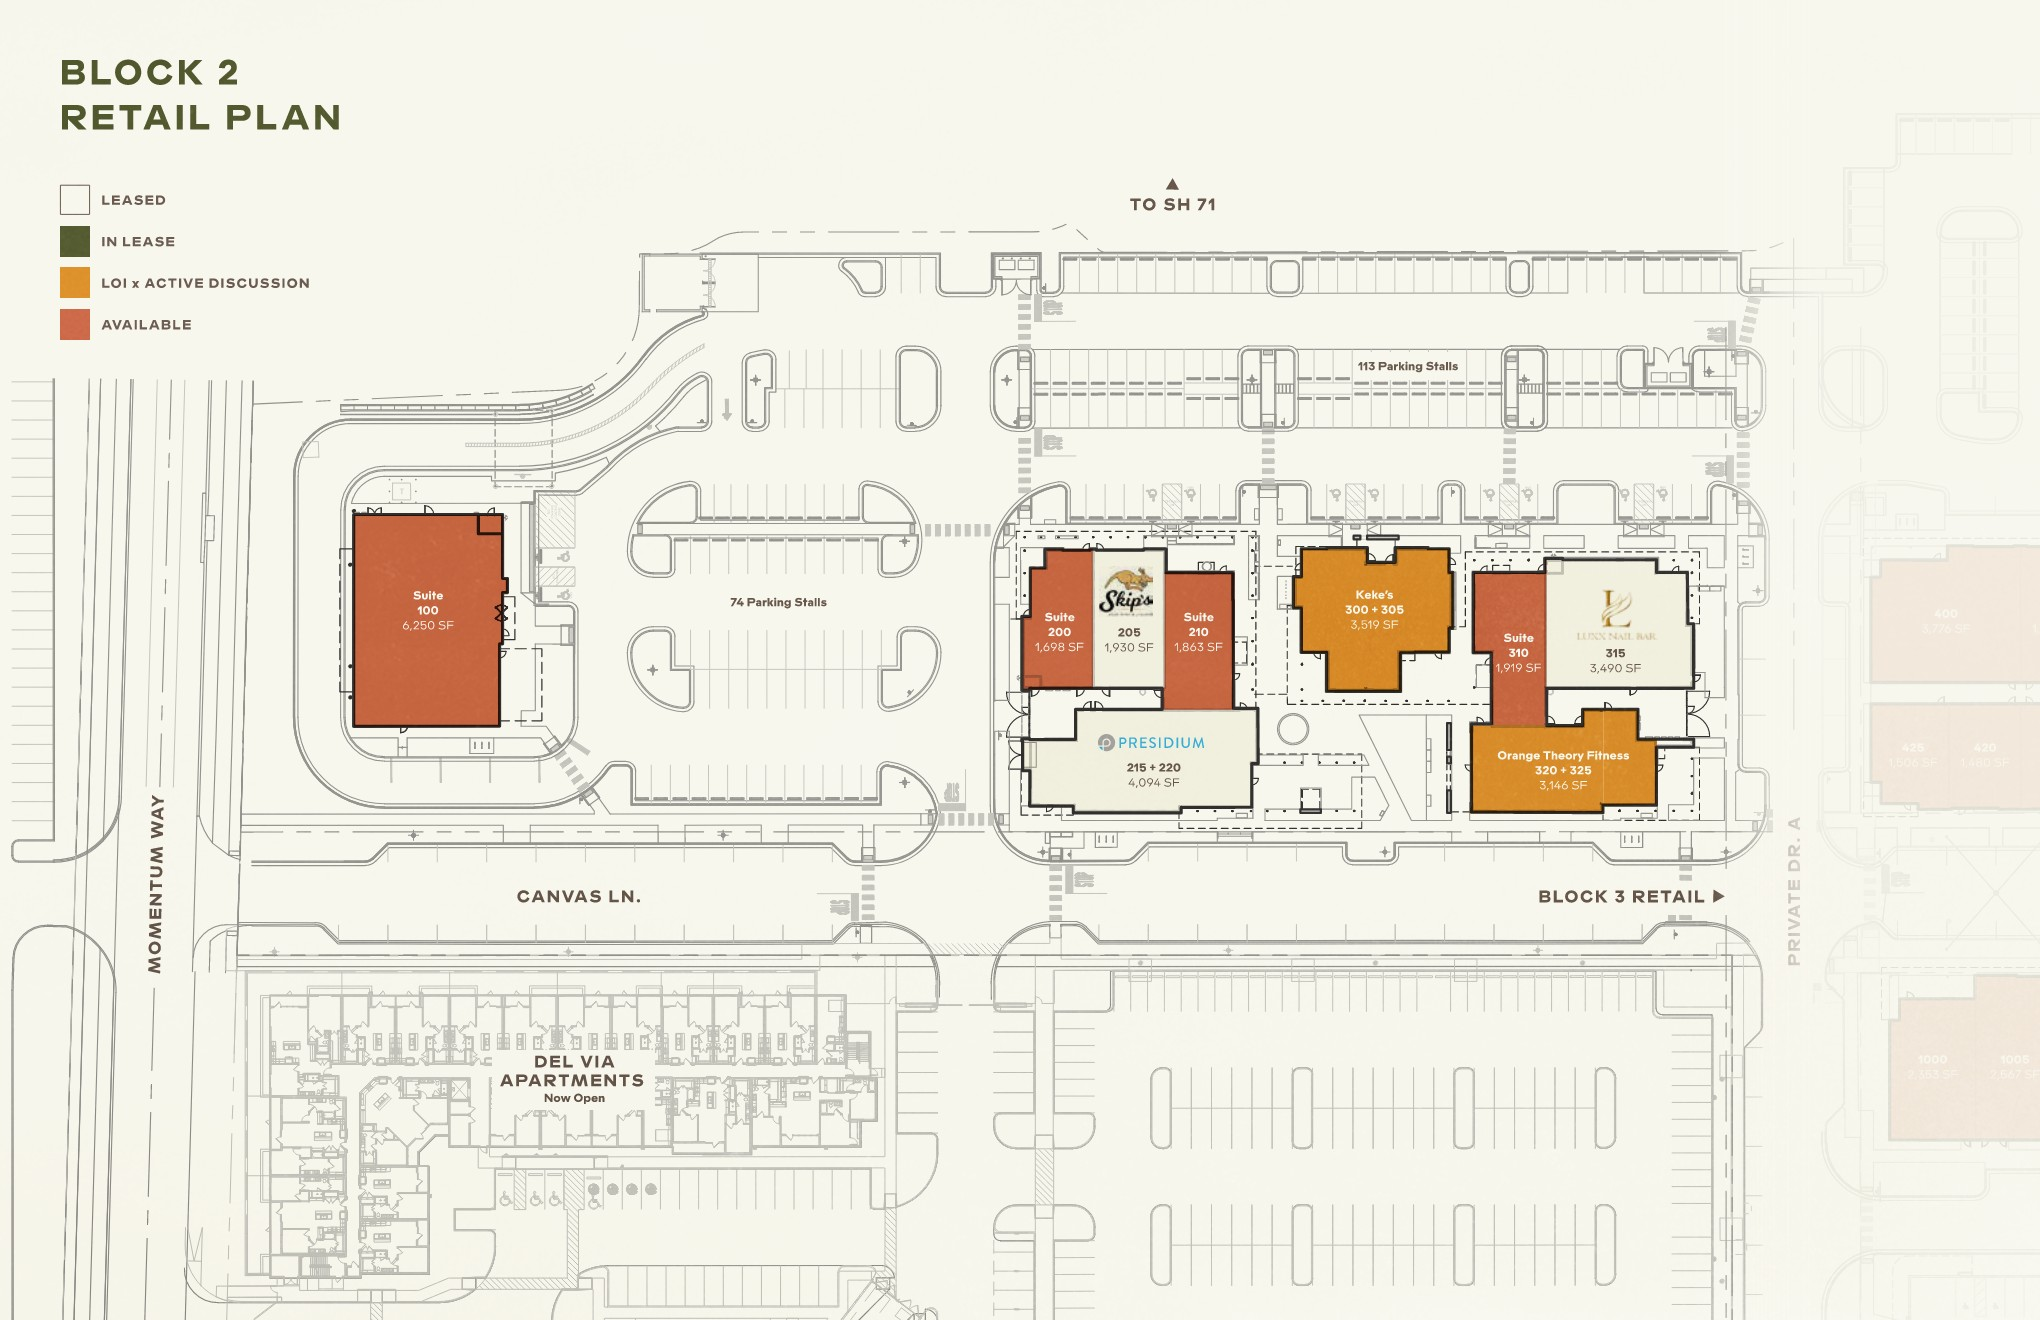
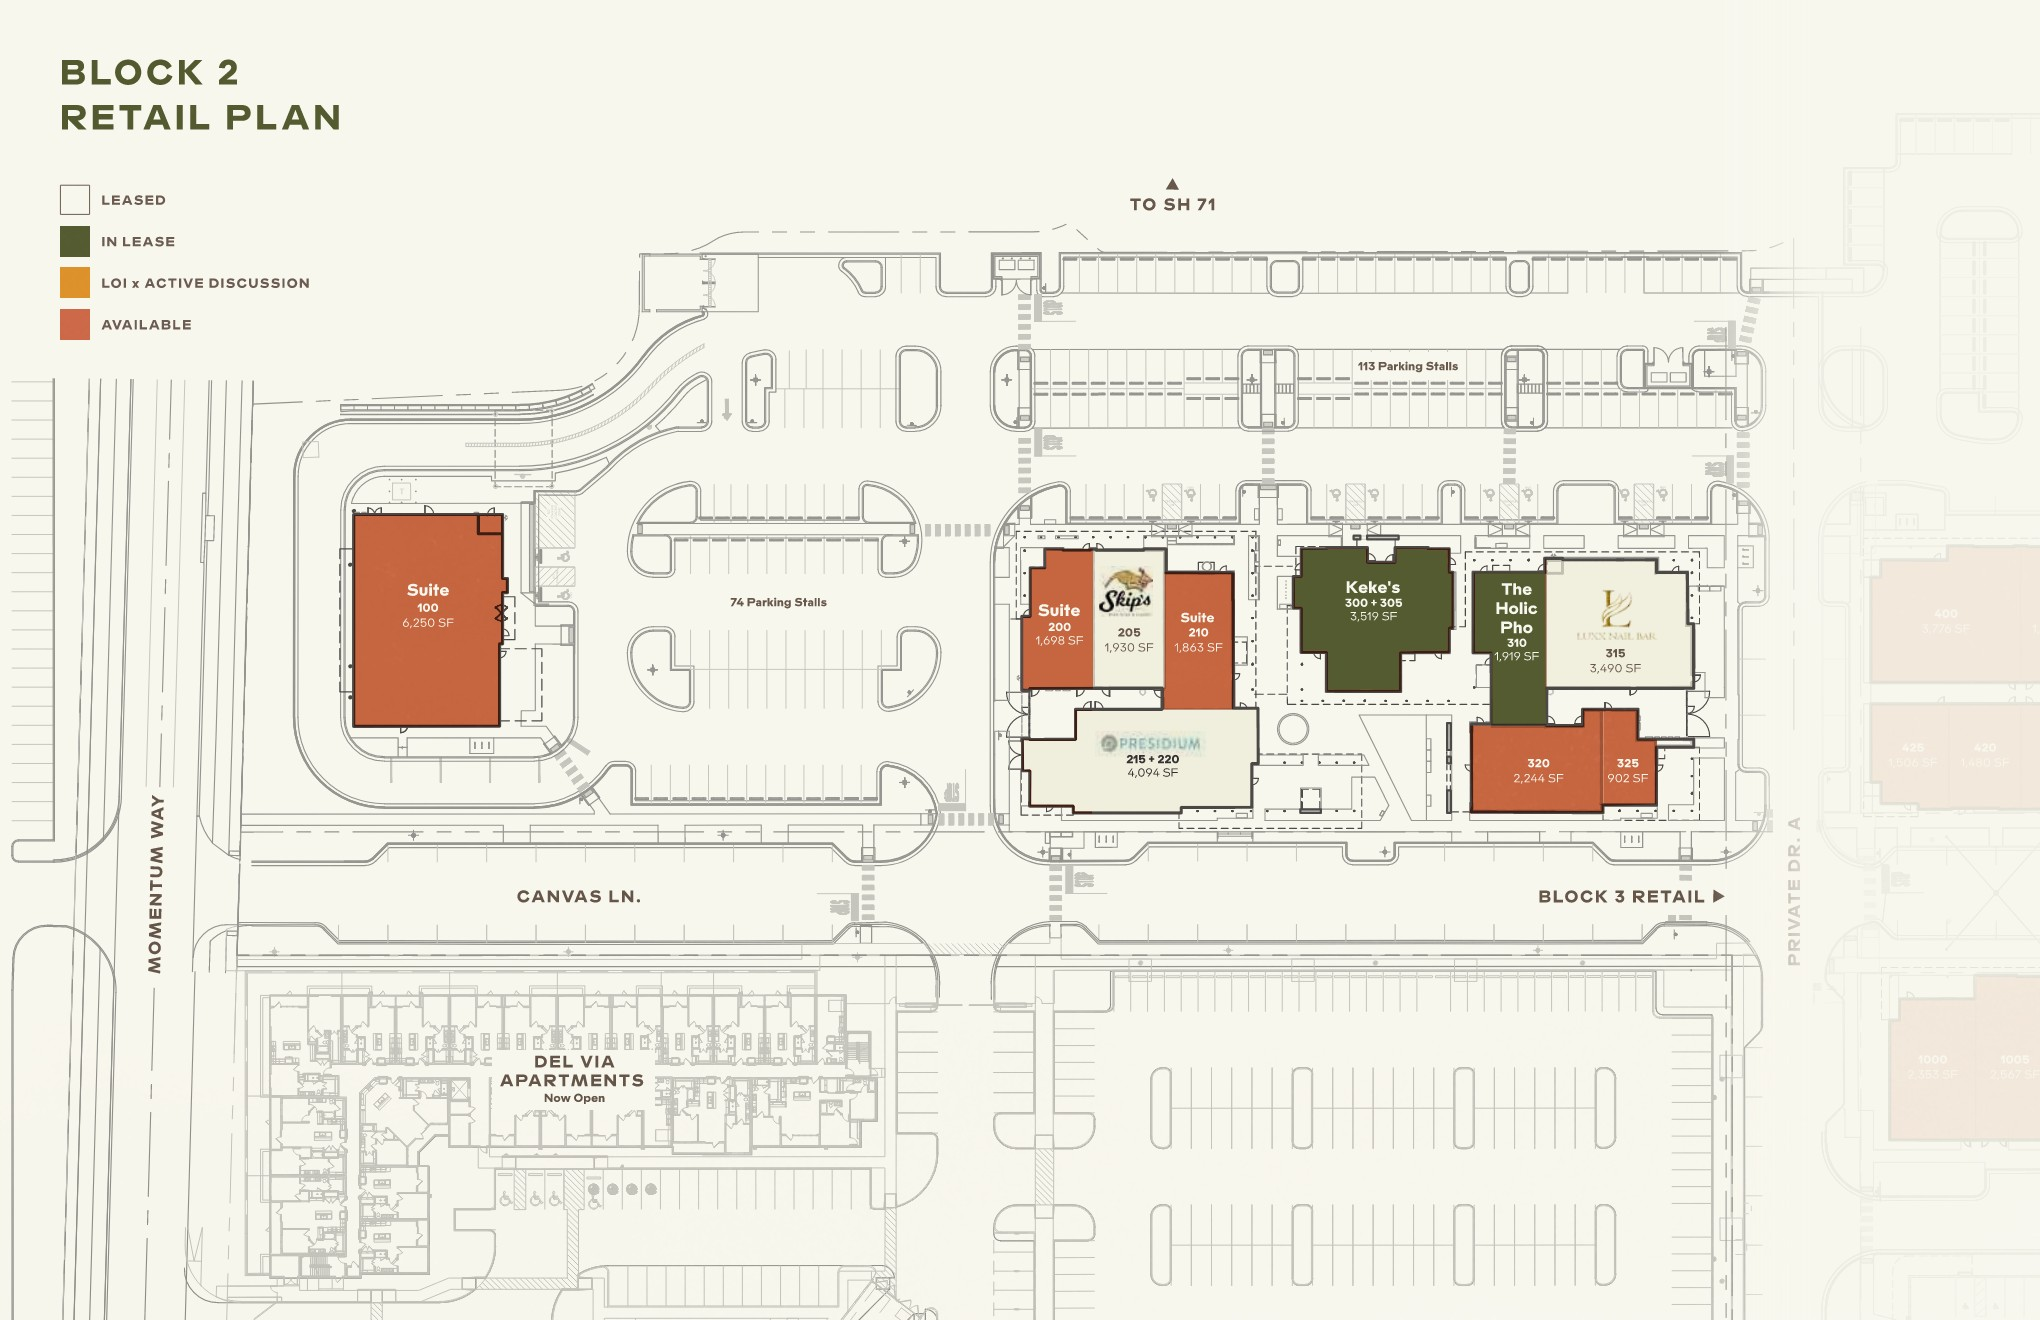
Update May 2026 report content

diff --git a/components/InvestmentThesis.tsx b/components/InvestmentThesis.tsx
@@ -6,7 +6,6 @@ import Block2Retail from '@/components/Block2Retail'
 import { FULL_WIDTH_SIZES } from '@/constants/media'
 import ChartContainer from '@/components/layout/ChartContainer'
 import amazonImage from '@/public/Amazon.jpg'
-import debtAfterAmazonSaleImage from '@/public/Debt After Amazon Transaction.jpg'
 import debtMapImage from '@/public/The Row Debt Map_Oct 2025.jpg'
 
 type InvestmentThesisProps = {
@@ -38,6 +37,11 @@ type InvestmentThesisProps = {
   delViaSummaryText?: string
   austinEnergySubstationSuffix?: string
   retailCoreMasterPlanContent?: React.ReactNode
+  block2RetailImages?: Array<{
+    alt: string
+    src: ImageProps['src']
+  }>
+  block2RetailTitle?: string
 }
 
 const DEFAULT_UNDER_CONTRACT_53_ACRES_TEXT =
@@ -67,7 +71,7 @@ export default function InvestmentThesis({
   debtMapTitle,
   debtMapPrimaryImage = debtMapImage,
   debtMapPrimaryAlt = 'Debt Map',
-  debtMapSecondaryImage = debtAfterAmazonSaleImage,
+  debtMapSecondaryImage,
   debtMapSecondaryAlt = 'Debt after Amazon Sale',
   debtMapSecondaryPlacement = 'sameBox',
   debtMapSecondaryTitle,
@@ -80,6 +84,8 @@ export default function InvestmentThesis({
   delViaSummaryText = DEFAULT_DEL_VIA_SUMMARY_TEXT,
   austinEnergySubstationSuffix = DEFAULT_AUSTIN_ENERGY_SUBSTATION_SUFFIX,
   retailCoreMasterPlanContent,
+  block2RetailImages,
+  block2RetailTitle,
 }: InvestmentThesisProps) {
   const debtHeadingClassName =
     debtMapTone === 'neutral'
@@ -116,8 +122,8 @@ export default function InvestmentThesis({
               </li>
               <li>
                 <strong>Austin Energy Substation (7 Acres and 7 acres of Easement):</strong>{' '}
-                Austin Energy is finalizing the boundaries of the substation and
-                transmission route. Thereafter, they will officially kick off the appraisals process.
+                Austin Energy is reviewing the survey exhibits for final approval
+                to kick start the 3rd party appraisals.
                 {austinEnergySubstationSuffix}
               </li>
               {landSalesExtraItems}
@@ -214,7 +220,7 @@ export default function InvestmentThesis({
             </div>
           </div>
 
-          {debtMapSecondaryImage ? (
+          {debtMapSecondaryImage || debtMapSecondaryContent ? (
             <>
               {debtMapSecondaryTitle ? (
                 <h4 className={debtHeadingClassName}>{debtMapSecondaryTitle}</h4>
@@ -226,7 +232,7 @@ export default function InvestmentThesis({
                   ) : (
                     debtMapSecondaryContent
                   )
-                ) : (
+                ) : debtMapSecondaryImage ? (
                   <div className="relative w-full">
                     <Image
                       src={debtMapSecondaryImage}
@@ -236,7 +242,7 @@ export default function InvestmentThesis({
                       loading="lazy"
                     />
                   </div>
-                )}
+                ) : null}
               </div>
             </>
           ) : null}
@@ -244,7 +250,7 @@ export default function InvestmentThesis({
       )}
       
       {anchors?.block2RetailId ? <div id={anchors.block2RetailId} className="scroll-mt-24" /> : null}
-      <Block2Retail />
+      <Block2Retail additionalImages={block2RetailImages} title={block2RetailTitle} />
       
       {showMasterPlanHeading ? (
         <h3 className="section-title mt-8 sm:mt-10 md:mt-12">Master Plan</h3>

diff --git a/components/updates/2026-05/May2026Body.tsx b/components/updates/2026-05/May2026Body.tsx
@@ -6,6 +6,10 @@ import RetailCoreRendering from '@/components/RetailCoreRendering'
 import MarketFundamentals from '@/components/MarketFundamentals'
 import amazonAndAeMapImage from '@/public/Amazon and AE Map_May 2026.jpg'
 import rowDebtMapMayImage from '@/public/The Row Debt Map.jpg'
+import theRowIcsc1Image from '@/public/The Row_ICSC_1.jpg'
+import theRowIcsc2Image from '@/public/The Row_ICSC_2.jpg'
+import theRowIcsc3Image from '@/public/The Row_ICSC_3.jpg'
+import theRowIcsc4Image from '@/public/The Row_ICSC_4.jpg'
 import AmazonTransactionsTable from '@/components/updates/2026-05/AmazonTransactionsTable'
 
 function KeyIndicatorCard({
@@ -43,7 +47,7 @@ function ExecutiveSummary() {
     {
       label: 'Retail Core',
       value: 'Approved',
-      detail: 'Site development permits were informally approved in April 2026.',
+      detail: 'Site development permits for the core are formally approved.',
     },
     {
       label: 'Del Via',
@@ -116,7 +120,7 @@ export default function May2026Body() {
                   approx. 1,900sf
                 </li>
                 <li>
-                  <strong>Holic Pho</strong> – negotiating LOI for 1,900 sf
+                  <strong>Holic Pho</strong> – in lease.
                 </li>
                 <li>
                   <strong>Kilwin&apos;s Ice Cream</strong> – expression of
@@ -154,10 +158,18 @@ export default function May2026Body() {
         debtMapSecondaryContentPadding={false}
         showMasterPlanHeading={false}
         austinEnergySubstationSuffix=""
+        block2RetailImages={[
+          { src: theRowIcsc1Image, alt: 'The Row ICSC 1' },
+          { src: theRowIcsc2Image, alt: 'The Row ICSC 2' },
+          { src: theRowIcsc3Image, alt: 'The Row ICSC 3' },
+          { src: theRowIcsc4Image, alt: 'The Row ICSC 4' },
+        ]}
+        block2RetailTitle="Block 2 & Block 1 Retail"
         retailCoreMasterPlanContent={
           <>
             <strong>Retail Core & Master Plan:</strong> Site development permits
-            were informally approved in April 2026.
+            are approved for the retail core and WW 84” connection. Active
+            permits for infrastructure shared with Amazon remain ongoing.
             <ul className="overview-depth-disc mt-2 space-y-2">
               <li>
                 <strong>AC Hotel Developer (Merritt)</strong> identified a

diff --git a/components/Block2Retail.tsx b/components/Block2Retail.tsx
@@ -1,13 +1,25 @@
 import Image from 'next/image'
+import type { ImageProps } from 'next/image'
 
 import { FULL_WIDTH_SIZES } from '@/constants/media'
 import ChartContainer from '@/components/layout/ChartContainer'
 import block2RetailImage from '@/public/Block 2 Retail.jpg'
 
-export default function Block2Retail() {
+type Block2RetailProps = {
+  additionalImages?: Array<{
+    alt: string
+    src: ImageProps['src']
+  }>
+  title?: string
+}
+
+export default function Block2Retail({
+  additionalImages = [],
+  title = 'Block 2 Retail',
+}: Block2RetailProps) {
   return (
     <section className="mb-8 sm:mb-10 md:mb-12">
-      <h3 className="section-title">Block 2 Retail</h3>
+      <h3 className="section-title">{title}</h3>
       
       <ChartContainer className="mb-8">
         <Image
@@ -18,6 +30,18 @@ export default function Block2Retail() {
           loading="lazy"
         />
       </ChartContainer>
+
+      {additionalImages.map((image) => (
+        <ChartContainer key={image.alt} className="mb-8">
+          <Image
+            src={image.src}
+            alt={image.alt}
+            sizes={FULL_WIDTH_SIZES}
+            className="h-auto w-full rounded-lg object-contain"
+            loading="lazy"
+          />
+        </ChartContainer>
+      ))}
     </section>
   )
 }

diff --git a/app/updates/2026-05/page.tsx b/app/updates/2026-05/page.tsx
@@ -17,7 +17,7 @@ export default function May2026UpdatePage() {
   const sections: NavSection[] = [
     { id: 'overview', label: 'Overview' },
     { id: 'potential-land-sales', label: 'Potential Land Sales' },
-    { id: 'block-2-retail', label: 'Block 2 Retail' },
+    { id: 'block-2-retail', label: 'Block 2 & Block 1 Retail' },
     { id: 'retail-core-master-plan', label: 'Retail Core & Master Plan' },
     { id: 'del-via-multifamily', label: 'Del Via Multifamily' },
     { id: 'austin-market', label: 'Austin Market' },
